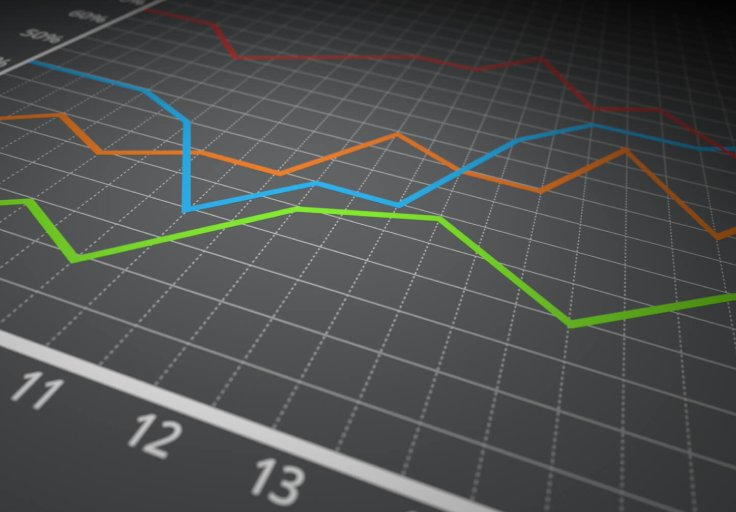
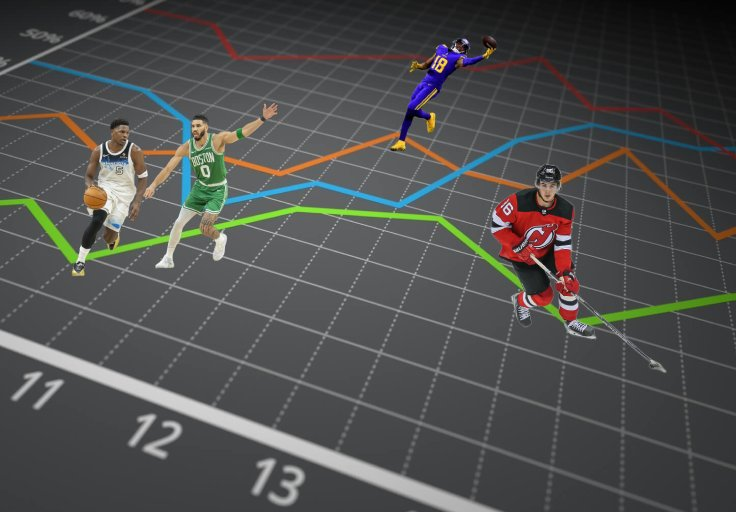
Cleaned up portfolio page and updated cover photo

diff --git a/pages/portfolio.html b/pages/portfolio.html
@@ -48,25 +48,17 @@
 										The idea of KIMMETRICS was born when I created an overcomplicated predictive model for March Madness. While this kind of overthinking seemed counterintuitive, it garnered
 										some surprisingly good results. I realized I had a lot of ideas and small excel sheets from one-off research I had done and it would be great to have a place to share that.
 									</p>
-									<p>Interdum et malesuada fames ac ante ipsum primis in faucibus. Pellentesque venenatis dolor imperdiet dolor mattis sagittis. Praesent rutrum sem diam, vitae egestas enim auctor sit amet. Pellentesque leo mauris, consectetur id ipsum sit amet, fersapien risus, commodo eget turpis at, elementum convallis elit. Pellentesque enim turpis, hendrerit tristique lorem ipsum dolor.</p>
 
 									<hr class="major" />
 
-									<h2>Interdum sed dapibus</h2>
-									<p>Donec eget ex magna. Interdum et malesuada fames ac ante ipsum primis in faucibus. Pellentesque venenatis dolor imperdiet dolor mattis sagittis. Praesent rutrum sem diam, vitae egestas enim auctor sit amet. Pellentesque leo mauris, consectetur id ipsum sit amet, fergiat. Pellentesque in mi eu massa lacinia malesuada et a elit. Donec urna ex, lacinia in purus ac, pretium pulvinar mauris. Curabitur sapien risus, commodo eget turpis at, elementum convallis elit. Pellentesque enim turpis, hendrerit.</p>
-									<p>Lorem ipsum dolor sit amet, consectetur adipiscing elit. Duis dapibus rutrum facilisis. Class aptent taciti sociosqu ad litora torquent per conubia nostra, per inceptos himenaeos. Etiam tristique libero eu nibh porttitor fermentum. Nullam venenatis erat id vehicula viverra. Nunc ultrices eros ut ultricies condimentum. Mauris risus lacus, blandit sit amet venenatis non, bibendum vitae dolor. Nunc lorem mauris, fringilla in aliquam at, euismod in lectus. Pellentesque habitant morbi tristique senectus et netus et malesuada fames ac turpis egestas. In non lorem sit amet elit placerat maximus. Pellentesque aliquam maximus risus, vel sed vehicula. Interdum et malesuada fames ac ante ipsum primis in faucibus. Pellentesque venenatis dolor imperdiet dolor mattis sagittis. Praesent rutrum sem diam, vitae egestas enim auctor sit amet. Pellentesque leo mauris, consectetur id ipsum sit amet, fersapien risus, commodo eget turpis at, elementum convallis elit. Pellentesque enim turpis, hendrerit tristique lorem ipsum dolor.</p>
+									<h2>Reach me here</h2>
+									<p><a href="https://www.linkedin.com/in/alexander-y-kim/">Linkedin</a></p>
 
 									<hr class="major" />
 
-									<h2>Magna etiam veroeros</h2>
-									<p>Lorem ipsum dolor sit amet, consectetur adipiscing elit. Duis dapibus rutrum facilisis. Class aptent taciti sociosqu ad litora torquent per conubia nostra, per inceptos himenaeos. Etiam tristique libero eu nibh porttitor fermentum. Nullam venenatis erat id vehicula viverra. Nunc ultrices eros ut ultricies condimentum. Mauris risus lacus, blandit sit amet venenatis non, bibendum vitae dolor. Nunc lorem mauris, fringilla in aliquam at, euismod in lectus. Pellentesque habitant morbi tristique senectus et netus et malesuada fames ac turpis egestas. In non lorem sit amet elit placerat maximus. Pellentesque aliquam maximus risus, vel sed vehicula.</p>
-									<p>Interdum et malesuada fames ac ante ipsum primis in faucibus. Pellentesque venenatis dolor imperdiet dolor mattis sagittis. Praesent rutrum sem diam, vitae egestas enim auctor sit amet. Pellentesque leo mauris, consectetur id ipsum sit amet, fersapien risus, commodo eget turpis at, elementum convallis elit. Pellentesque enim turpis, hendrerit tristique lorem ipsum dolor.</p>
+									<h2>Other projects I have worked on</h2>
 
 									<hr class="major" />
-
-									<h2>Lorem aliquam bibendum</h2>
-									<p>Donec eget ex magna. Interdum et malesuada fames ac ante ipsum primis in faucibus. Pellentesque venenatis dolor imperdiet dolor mattis sagittis. Praesent rutrum sem diam, vitae egestas enim auctor sit amet. Pellentesque leo mauris, consectetur id ipsum sit amet, fergiat. Pellentesque in mi eu massa lacinia malesuada et a elit. Donec urna ex, lacinia in purus ac, pretium pulvinar mauris. Curabitur sapien risus, commodo eget turpis at, elementum convallis elit. Pellentesque enim turpis, hendrerit.</p>
-									<p>Lorem ipsum dolor sit amet, consectetur adipiscing elit. Duis dapibus rutrum facilisis. Class aptent taciti sociosqu ad litora torquent per conubia nostra, per inceptos himenaeos. Etiam tristique libero eu nibh porttitor fermentum. Nullam venenatis erat id vehicula viverra. Nunc ultrices eros ut ultricies condimentum. Mauris risus lacus, blandit sit amet venenatis non, bibendum vitae dolor. Nunc lorem mauris, fringilla in aliquam at, euismod in lectus. Pellentesque habitant morbi tristique senectus et netus et malesuada fames ac turpis egestas. In non lorem sit amet elit placerat maximus. Pellentesque aliquam maximus risus, vel sed vehicula.</p>
 
 								</section>
 

diff --git a/pages/index.html b/pages/index.html
@@ -36,7 +36,7 @@
 								<section id="banner">
 									<div class="content">
 										<header>
-											<h1>Welcome to The<br />
+											<h1>Welcome to<br />
 											<span style="color:red">KIM</span>METRICS</h1>
 											<p>Over-engineered breakdowns of your favorite sports</p>
 										</header>
@@ -45,7 +45,7 @@
 											to various sports, ranging from general predictions to ultra-specific rabbit holes that I've gone down.
 										</p>
 										<ul class="actions">
-											<li><a href="#" class="button big">Learn More</a></li>
+											<li><a href="portfolio.html" class="button big">Learn More</a></li>
 										</ul>
 									</div>
 									<span class="image object">
